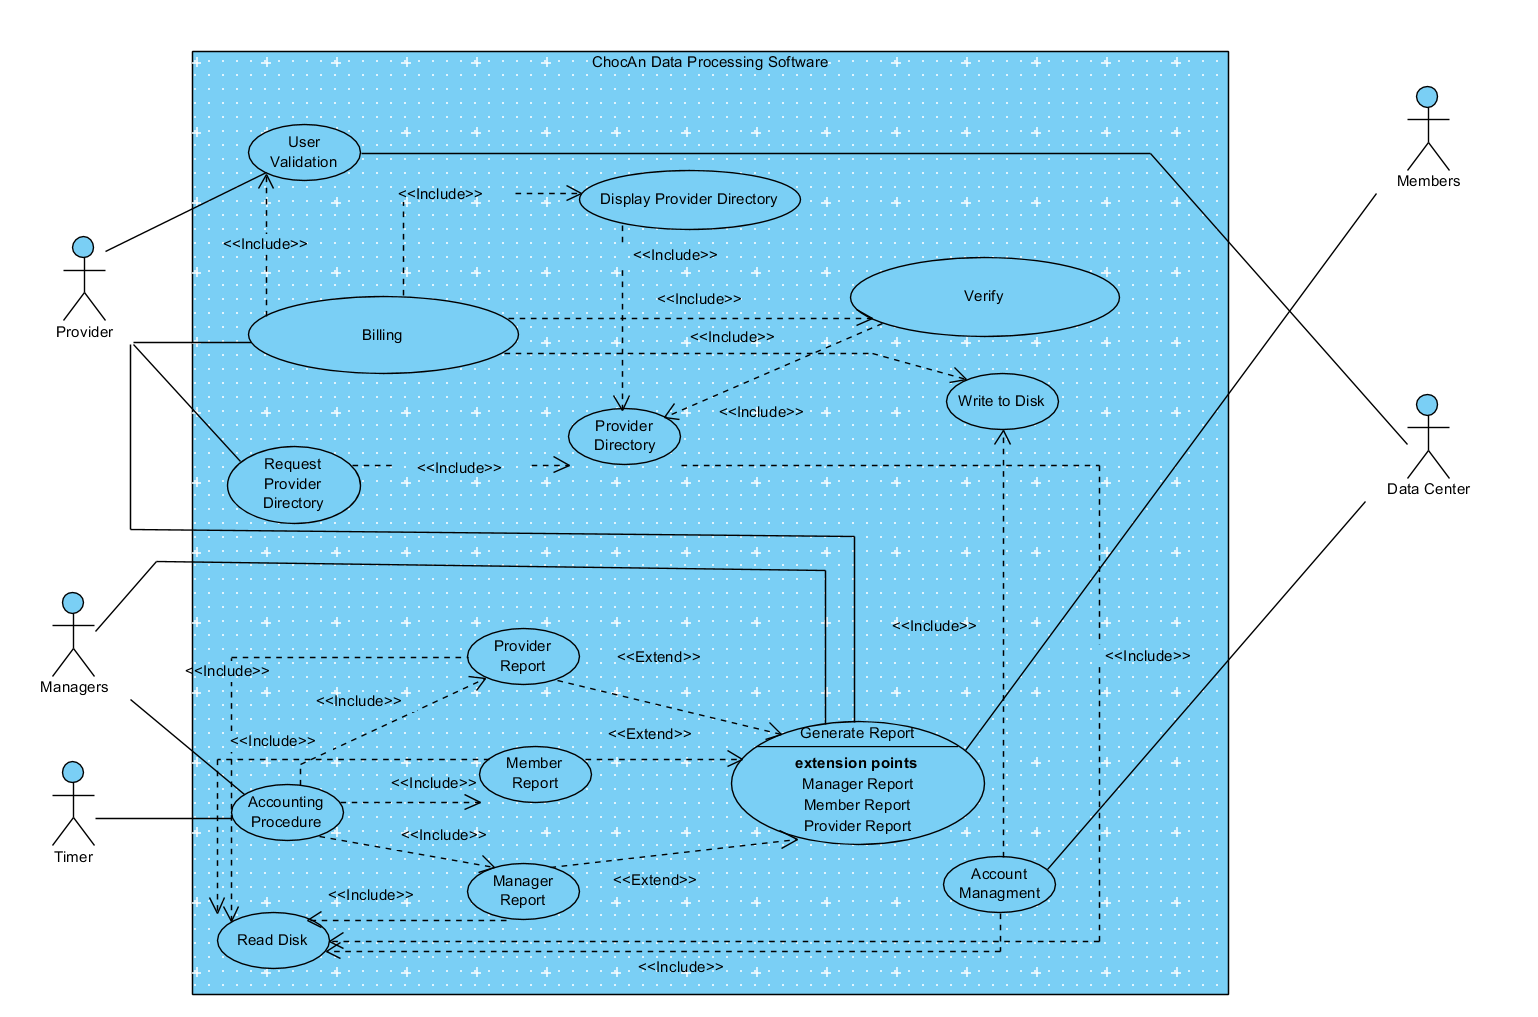
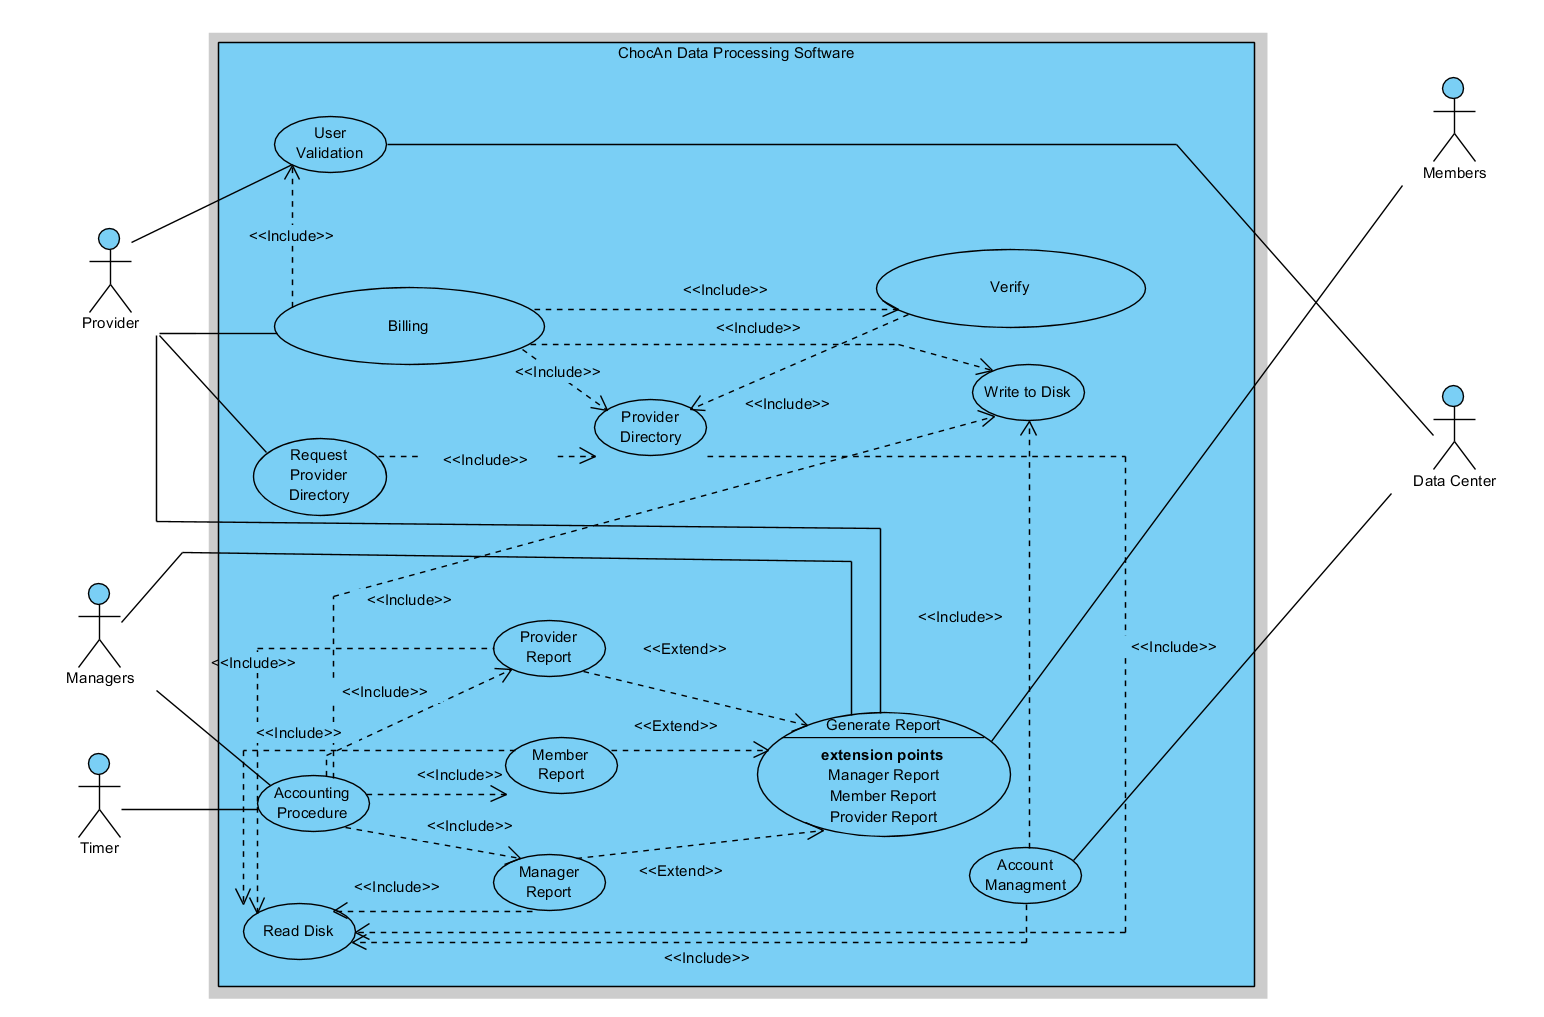
Formatted Contribution

diff --git a/index.html b/index.html
@@ -245,19 +245,6 @@ namely, dietitians, internists, and exercise experts. </p>
 
 				</p>
 
-				<h2 class="ml-auto"> Display Provider Directory</h2>
-				<p style="padding:10%; border-radius: 20px;border: none; background-color: #5d636d;color: white;resize: none; text-align:left; font-size:20px;font-family:Courier New, Courier, monospace;">
-
-
-
-					Use Case: Display provider directory <br/>
-					Context: Displays the provider directory for the provider to choose service <br/>
-					Actors: <br/>
-					Main Success Scenario: <br/>
-					1. Gets the provider directory. <br/>
-					2. Displays the directory to the provider. <br/>
-
-				</p>
 
 				<h2 class="ml-auto">Provider Directory</h2>
 				<p style="padding:10%; border-radius: 20px;border: none; background-color: #5d636d;color: white;resize: none; text-align:left; font-size:20px;font-family:Courier New, Courier, monospace;">
@@ -271,19 +258,6 @@ namely, dietitians, internists, and exercise experts. </p>
 
 				</p>
 
-				<h2 class="ml-auto"> Request Provider Directory</h2>
-				<p style="padding:10%; border-radius: 20px;border: none; background-color: #5d636d;color: white;resize: none; text-align:left; font-size:20px;font-family:Courier New, Courier, monospace;">
-
-					Use Case: Request Provider Directory<br/>
-					Context: Retrieves provider directory and send it to the provider<br />
-					Actors: Provider<br />
-					Main Success Scenario:<br />
-					1. Gets the provider directory.<br />
-					2. Reads the database and retrieves the contact information for the provided who requested the directory.<br />
-					3. Emails the provider directory to the provider.<br />
-
-
-				</p>
 
 				<h2 class="ml-auto">Write Disk</h2>
 				<p style="padding:10%; border-radius: 20px;border: none; background-color: #5d636d;color: white;resize: none; text-align:left; font-size:20px;font-family:Courier New, Courier, monospace;">
@@ -390,11 +364,78 @@ namely, dietitians, internists, and exercise experts. </p>
 			<div class="col-lg-12 text-center">
 				<h1 class="mt-5">Contribution</h1>
 				<div class="text-left">
-					<h2> Ajay <progress value="20" max="100"></progress> 20% [Use Case Diagram, Use Case definitions]</h2>
-					<h2> Gen <progress value="20" max="100"></progress> 20% [Use Case definitions, Glossary]</h2>
-					<h2> Jacob <progress value="20" max="100"></progress> 20% [Use Case Diagram, Use Case definitions]</h2>
-					<h2> Matt <progress value="20" max="100"></progress> 20% [Use Case definitions, Glossary]</h2>
-					<h2> Tyler <progress value="20" max="100"></progress> 20% [Use Case definitions, Glossary]</h2>
+
+					<table class="table">
+						<thead>
+							<tr>
+								<th scope="col">Name</th>
+								<th scope="col">Contribution</th>
+								<th scope="col"> Tasks Completed</th>
+							</tr>
+						</thead>
+						<tbody>
+							<tr>
+								<th scope="row">
+									Ajay
+								</th>
+								<td>
+									<progress value="20" max="100"></progress> 20%
+								</td>
+								<td>
+									Use Case Diagram, Use Case definitions
+								</td>
+							</tr>
+
+							<tr>
+								<th scope="row">
+									Gen
+								</th>
+								<td>
+									<progress value="20" max="100"></progress> 20%
+								</td>
+								<td>
+									Use Case definitions, Glossary
+								</td>
+							</tr>
+
+							<tr>
+								<th scope="row">
+									Jacob
+								</th>
+								<td>
+									<progress value="20" max="100"></progress> 20%
+								</td>
+								<td>
+									Use Case Diagram, Use Case definitions
+								</td>
+							</tr>
+
+							<tr>
+								<th scope="row">
+									Matt
+								</th>
+								<td>
+									<progress value="20" max="100"></progress> 20%
+								</td>
+								<td>
+									Use Case definitions, Glossary
+								</td>
+							</tr>
+
+							<tr>
+								<th scope="row">
+									Tyler
+								</th>
+								<td>
+									<progress value="20" max="100"></progress> 20%
+								</td>
+								<td>
+									Use Case definitions, Glossary
+								</td>
+							</tr>
+
+						</tbody>
+					</table>
 				</div>
 				<br /><br /><br /><br /><br />
 			</div>
